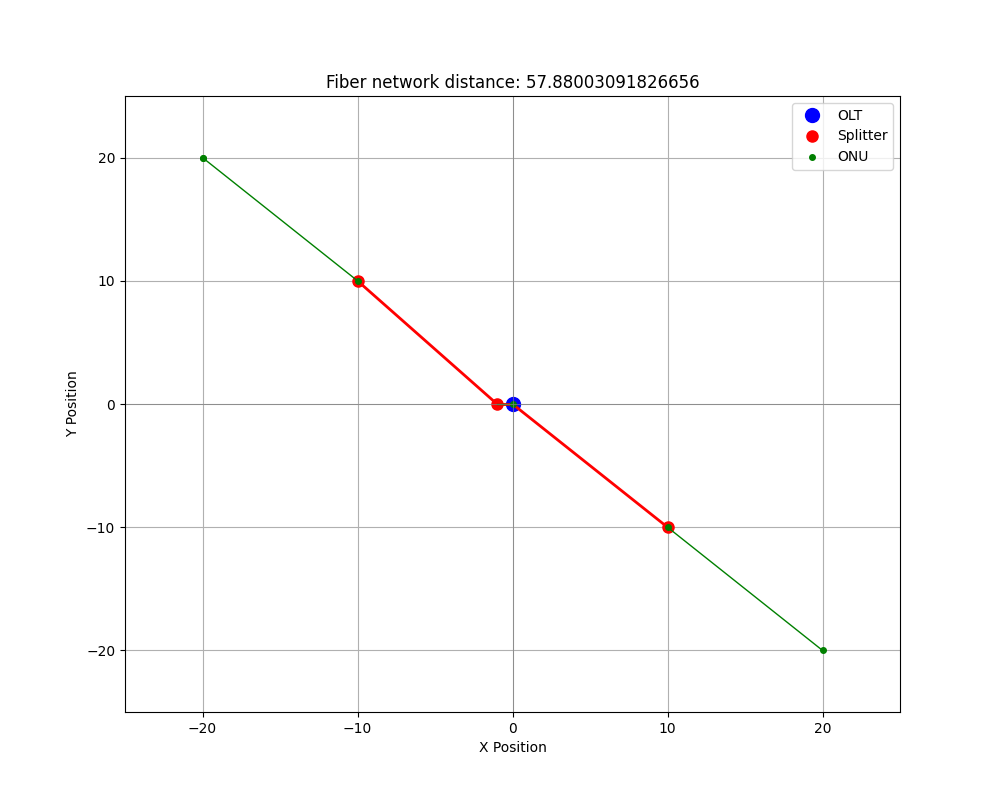
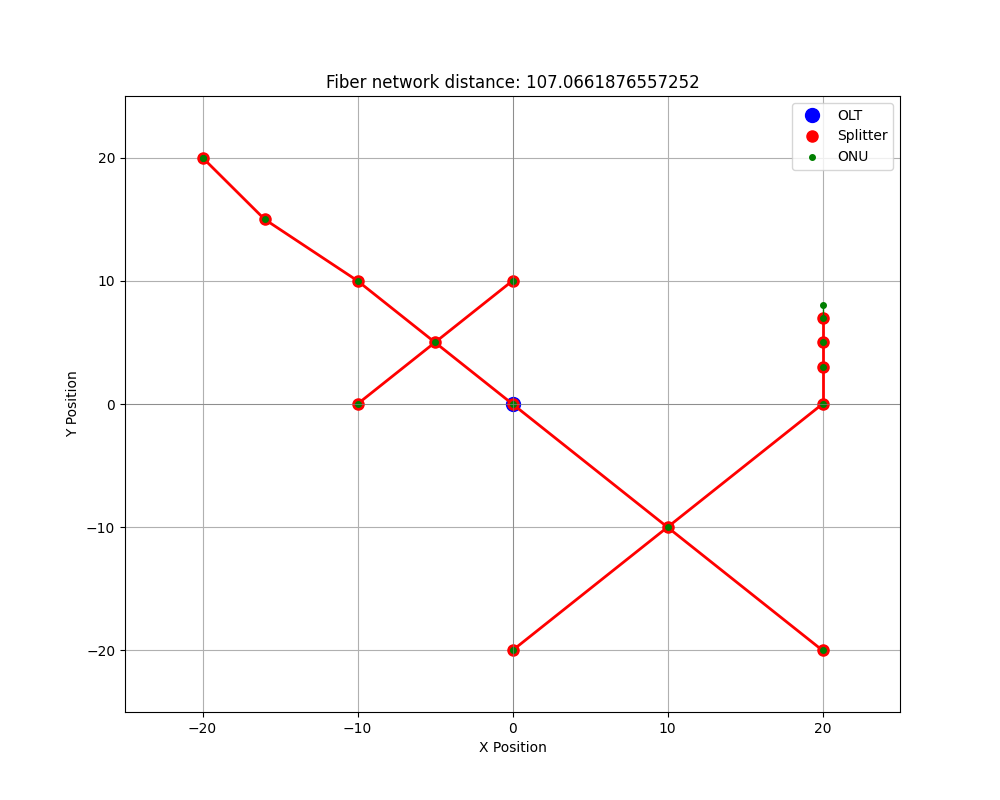
fixed

diff --git a/fiber_lib.py b/fiber_lib.py
@@ -23,7 +23,7 @@ def calculate_total_length(splitters_positions, ONU_positions):
         splitter_position = splitters_positions[int(splitter_id)]
         total_length += calculate_distance(onu_position, splitter_position)
         
-    all_nodes = list(set(splitters_positions))
+    all_nodes = splitters_positions
     dist_matrix = distance_matrix(all_nodes, all_nodes)
     mst = minimum_spanning_tree(dist_matrix).toarray()
     total_length += mst[mst > 0].sum()
@@ -52,12 +52,11 @@ def assign_ONU_to_splitters(splitters_positions, onus):
         closest_splitter_id = -1
         
         for ids, splitter in enumerate(splitters_positions):
-            if(ids > 0):
-                distance = calculate_distance(onu_position, splitter)
+            distance = calculate_distance(onu_position, splitter)
 
-                if distance < min_distance:
-                    min_distance = distance
-                    closest_splitter_id = ids
+            if distance < min_distance:
+                min_distance = distance
+                closest_splitter_id = ids
 
         ONU_positions.at[index, 'splitter_id'] = closest_splitter_id
         ONU_positions.at[index, 'distance'] = int(min_distance)
@@ -68,9 +67,9 @@ def assign_ONU_to_splitters(splitters_positions, onus):
 def plot_network(splitters_positions, mst, ONU_positions, title, dist):
     plt.figure(figsize=(10, 8))
 
-    plt.plot(splitters_positions[0][0], splitters_positions[0][1], 'bo', markersize=10, label='OLT')
+    plt.plot(0, 0, 'bo', markersize=10, label='OLT')
 
-    for idx, splitter in enumerate(splitters_positions[1:]):
+    for idx, splitter in enumerate(splitters_positions[:]):
         plt.plot(splitter[0], splitter[1], 'ro', markersize=8, label='Splitter' if idx == 0 else "")  # Splitters in red
 
     for i in range(mst.shape[0]):

diff --git a/k_rand.py b/k_rand.py
@@ -14,10 +14,10 @@ import k_means
 from fiber_lib import *
 
 
-def optimize_splitters_with_krand(OLT, ONU_positions, num_splitters, max_iter, max_stagnation):
+def optimize_splitters_with_krand(ONU_positions, num_splitters, max_iter, max_stagnation):
     #k-means version
-    splitters_positions, ONU_positions, total_distance, mst = k_means.optimize_splitters_with_kmeans(OLT, ONU_positions, num_splitters)
-    splitters_positions = [OLT] + splitters_positions
+    splitters_positions, ONU_positions, total_distance, mst = k_means.optimize_splitters_with_kmeans(ONU_positions, num_splitters)
+    splitters_positions = splitters_positions
 
     #random noise version
     splitters_positions, ONU_positions, total_length, mst = random_noise.optimize_splitters_with_random_noise(ONU_positions, splitters_positions, max_iter, max_stagnation)
@@ -29,16 +29,15 @@ def optimize_splitters_with_krand(OLT, ONU_positions, num_splitters, max_iter, m
 
 
 def calculate(ONU_positions, max_splitters):
-    OLT = (0,0)
     file_path = "onu_points" + num + ".xlsx"
     ONU_positions['splitter_id'] = -1
     max_iter = 5000
     max_stagnation = 50
 
-    best_splitters,best_onus,best_dist,best_mst = optimize_splitters_with_krand(OLT, ONU_positions, 1, max_iter, max_stagnation)
+    best_splitters,best_onus,best_dist,best_mst = optimize_splitters_with_krand(ONU_positions, 1, max_iter, max_stagnation)
 
     for num_splitters in range(3, min(len(ONU_positions)+1,max_splitters+1)):
-        c_splitters,c_onus,c_dist,c_mst = optimize_splitters_with_krand(OLT, ONU_positions, num_splitters, max_iter, max_stagnation)
+        c_splitters,c_onus,c_dist,c_mst = optimize_splitters_with_krand(ONU_positions, num_splitters, max_iter, max_stagnation)
         print(num_splitters, c_dist)
         
         if c_dist<best_dist:

diff --git a/k_means.py b/k_means.py
@@ -11,7 +11,7 @@ from sklearn.cluster import KMeans
 
 from fiber_lib import *
 
-def optimize_splitters_with_kmeans(OLT, ONU_positions, num_splitters):
+def optimize_splitters_with_kmeans(ONU_positions, num_splitters):
     # Extract ONU positions as numpy array
     onu_positions = ONU_positions[['x', 'y']].to_numpy()
     
@@ -27,24 +27,23 @@ def optimize_splitters_with_kmeans(OLT, ONU_positions, num_splitters):
     #ONU_positions['splitter_id'] = np.argmin(distances, axis=1)
     splitters_positions = [tuple(splitter) if isinstance(splitter, np.ndarray) else splitter for splitter in splitters_positions]
 
-    ONU_positions = assign_ONU_to_splitters([OLT] + splitters_positions, ONU_positions)
+    ONU_positions = assign_ONU_to_splitters(splitters_positions, ONU_positions)
     
 
-    total_distance,mst = calculate_total_length([OLT] + splitters_positions, ONU_positions)
+    total_distance,mst = calculate_total_length(splitters_positions, ONU_positions)
     
     return splitters_positions, ONU_positions, total_distance, mst
 
 def main():
-    OLT = (0,0)
     file_path = "onu_points" + num + ".xlsx"
     ONU_positions =  pd.read_excel(file_path)
     ONU_positions['splitter_id'] = -1
 
     for num_splitters in range(1, 2+int(len(ONU_positions)**0.5)):
-        splitters,onus,dist,mst = optimize_splitters_with_kmeans(OLT, ONU_positions, num_splitters)
+        splitters,onus,dist,mst = optimize_splitters_with_kmeans(ONU_positions, num_splitters)
         print(dist)
         file_path = os.path.join("k-means_img", str(num_splitters) + "_kmean_fiber_network" + num + ".png")
-        plot_network([OLT]+splitters, mst, onus, file_path, int(dist))
+        plot_network(splitters, mst, onus, file_path, int(dist))
 
 if __name__=="__main__":
     main()

diff --git a/naive.py b/naive.py
@@ -37,14 +37,14 @@ def optimize_splitters_with_reassignment(onups, splitters_positions, max_iter, m
 
     stagnation = 0
     for iteration in range(max_iter):
-        chosen_splitter_index = random.randint(1,len(splitters_positions)-1) #dont move OLT
-        print(chosen_splitter_index)
+        chosen_splitter_index = random.randint(0,len(splitters_positions)-1) 
+        #print(chosen_splitter_index)
         best_move = None
         best_length = total_length
         best_mst = mst
         best_ONU_positions = ONU_positions
         best_splitters_positions = splitters_positions
-        print(best_splitters_positions)
+        #print(best_splitters_positions)
         
         for distance in [18,9,3,1]:
             for direction in ["up", "down", "left", "right", "up left", "up right", "down left", "down right"]:
@@ -83,7 +83,7 @@ def main():
     max_stagnation = 33
     
     for num_splitters in range(1, 1+int(len(ONU_positions))):
-        splitters_positions = [OLT] + random_initial_positions(num_splitters)  
+        splitters_positions = random_initial_positions(num_splitters)  
         splitters,onus,dist,mst = optimize_splitters_with_reassignment(ONU_positions, splitters_positions, max_iter, max_stagnation)
     
         file_path = os.path.join("naive_img", str(num_splitters) + "_naive_fiber_network" + num + ".png")

diff --git a/random_noise.py b/random_noise.py
@@ -12,9 +12,8 @@ import os
 
 def add_noise(splitters_positions, distance):
     new_positions = []
-    new_positions.append(splitters_positions[0])
 
-    for (x, y) in splitters_positions[1:]:
+    for (x, y) in splitters_positions:
         # Generate a random number between 0 and 1
         rand_num = random.random()
         
@@ -96,7 +95,7 @@ def main():
     max_stagnation = 60
     
     for num_splitters in range(1, 2+int(len(ONU_positions)**0.5)):
-        splitters_positions = [OLT] + random_initial_positions(num_splitters)
+        splitters_positions = random_initial_positions(num_splitters)
         splitters,onus,dist,mst = optimize_splitters_with_random_noise(ONU_positions, splitters_positions, max_iter, max_stagnation)
     
         best_dist = dist
